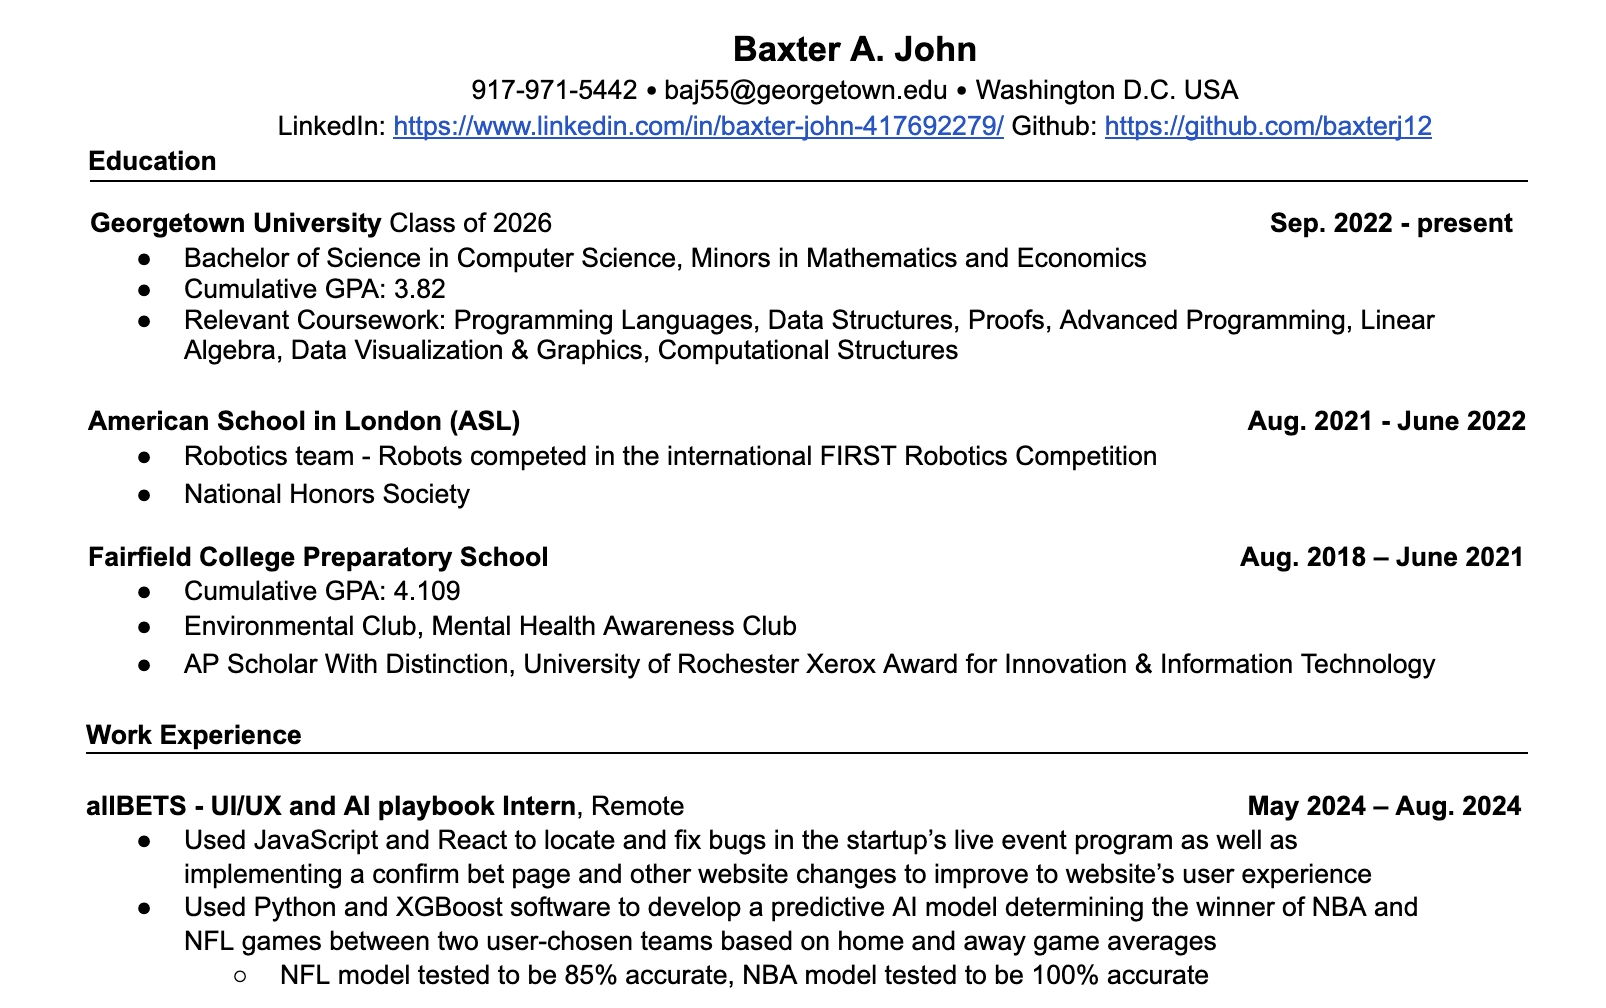
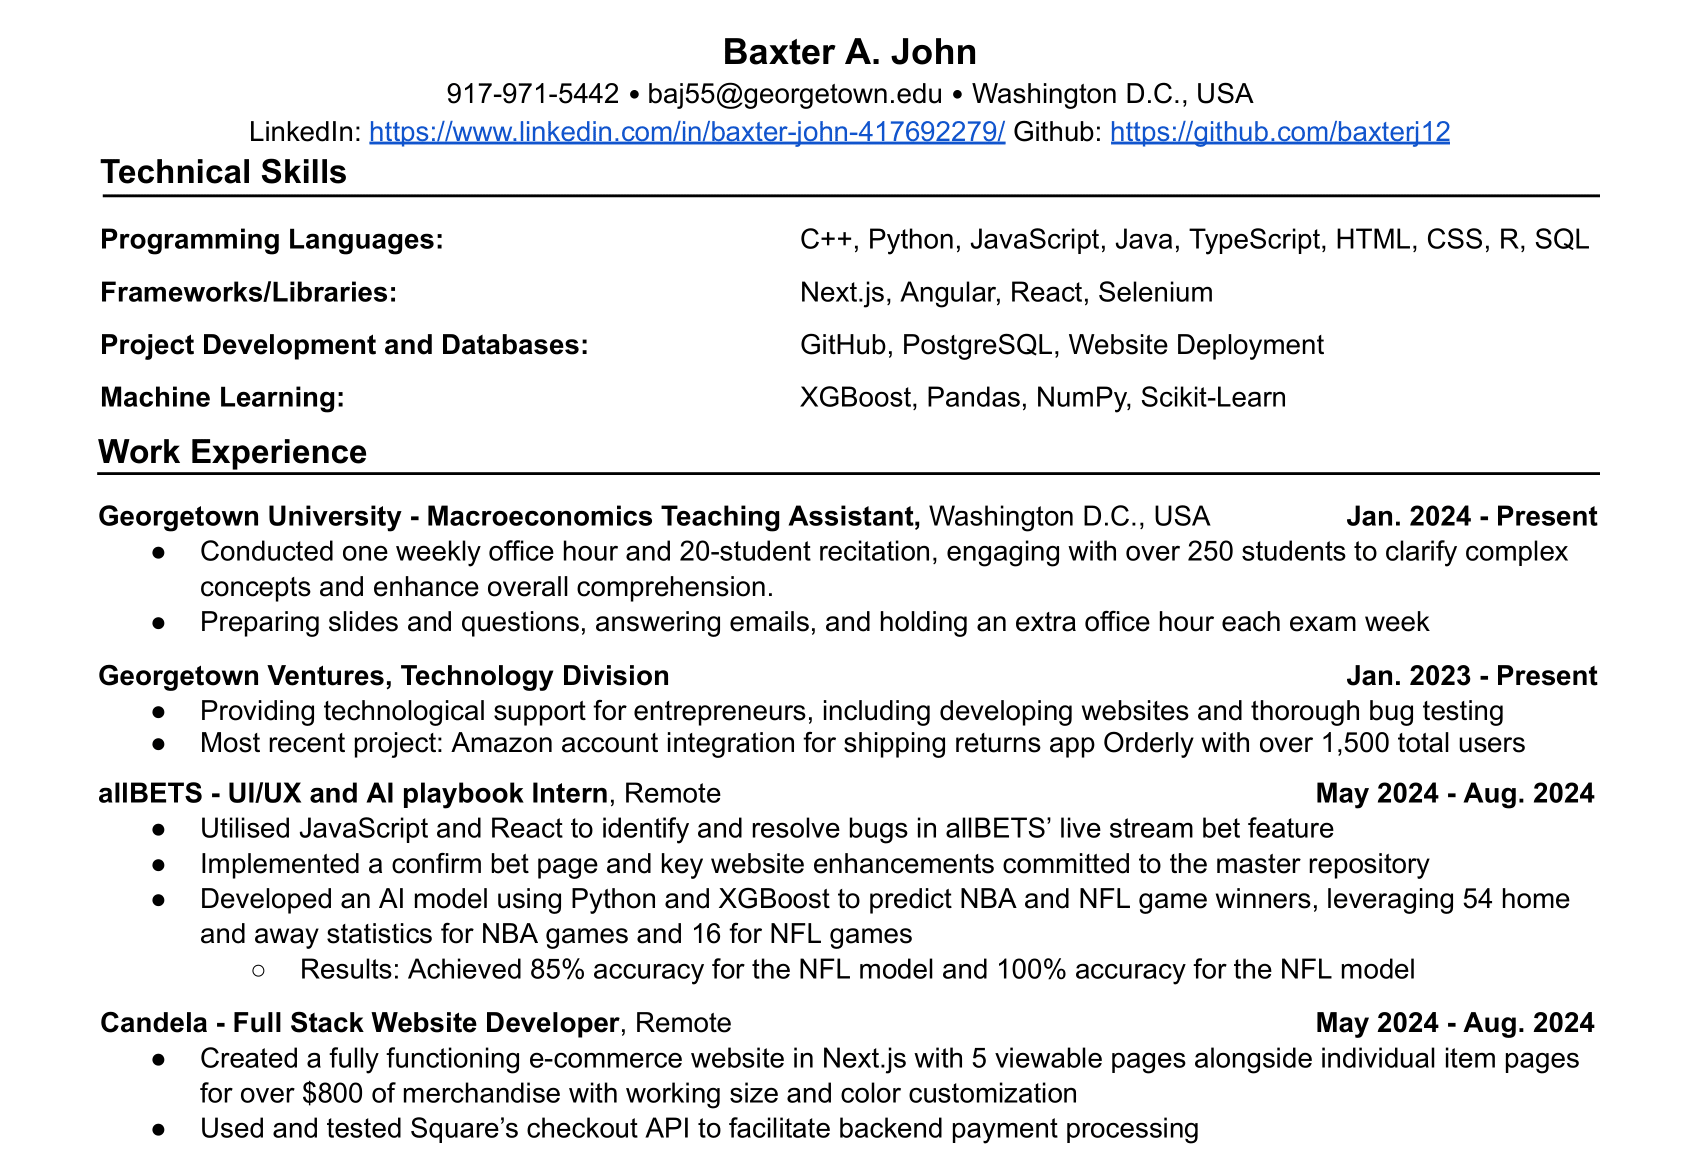
style changes

Changed region(s): [[0.0311, 0.0308, 0.9651, 1.0]]

diff --git a/src/app/homePage/app.homePage.html b/src/app/homePage/app.homePage.html
@@ -12,13 +12,13 @@
                 <a routerLink="/projects" routerLinkActive="active" aria-current="page" class="link">
                     <div class="oneLink">
                             <img class="linkImage" src="homepage/projectsprev.png"/>
-                            <p>Check out my projects</p>
+                            <p class="linkText">Check out my projects</p>
                     </div>
                 </a>
                 <a routerLink="/skills" routerLinkActive="active" aria-current="page" class="link">
                     <div class="oneLink">
                         <img class="linkImage" src="homepage/skillsprev.png"/>
-                        <p>View my skills</p>
+                        <p class="linkText">View my skills</p>
                     </div>
                 </a>
             </div>
@@ -26,13 +26,13 @@
                 <a routerLink="/resume" routerLinkActive="active" aria-current="page" class="link">
                     <div class="oneLink">
                         <img class="linkImage" src="homepage/resumeprev.png"/>
-                        <p>See my resume</p>
+                        <p class="linkText">See my resume</p>
                     </div>
                 </a>
                 <a routerLink="/aboutme" routerLinkActive="active" aria-current="page" class="link">
                     <div class="oneLink">
                         <img class="linkImage" src="homepage/aboutprev.png"/>
-                        <p>Read more about me</p>
+                        <p class="linkText">Read more about me</p>
                     </div>
                 </a>
             </div>
@@ -40,9 +40,9 @@
         <div class="smallAboutMe">
             <img class="headshot" src="homepage/headshot.png"/>
             <p class="smallAboutMeText">I am a Computer Science major at Georgetown University, minoring in Economics and Mathematics. 
-                I pride myself on my work ethic, collaboration, and passion and have used those tools to develop an 
-                understanding of full-stack development with a specialization in frontend development.</p>
-                <p class="smallAboutMeText">I am a current Junior planning on graduating in May 2026. Originally from New Canaan, Connecticut,
+                I pride myself on my work ethic, collaboration, and passion and use those tools to develop a deep 
+                understanding of full-stack development.</p>
+                <p class="smallAboutMeText">I am a current Junior graduating in May 2026. Originally from New Canaan, Connecticut,
                     and I moved to London when I was 17. My hobbies include guitar, hockey, soccer, and video games.
                 </p>
         </div>

diff --git a/src/app/homePage/app.homePage.css b/src/app/homePage/app.homePage.css
@@ -1,4 +1,3 @@
-
 .homeContainer {
     width: 100vw;
     height: 100vh;
@@ -11,7 +10,7 @@
 .homeHeader {
     width: 100vw;
     height: 10vh;
-    background-color: rgb(143, 143, 234);
+    background: linear-gradient(to bottom, rgb(143, 143, 234), rgb(99, 99, 161));
     display: flex;
     justify-content: center;
     align-items: center;
@@ -21,7 +20,7 @@
 .homeFooter {
     width: 100vw;
     height: 10vh;
-    background-color: rgb(143, 143, 234);
+    background: linear-gradient(to top, rgb(143, 143, 234), rgb(99, 99, 161));
     display: flex;
     justify-content: center;
     gap: 10vw;
@@ -42,7 +41,7 @@
     height: 80vh;
     display: flex;
     flex-direction: row;
-    background-color:rgb(99, 99, 161)
+    background: linear-gradient(to top, rgb(99, 99, 161), white 50%, rgb(99, 99, 161));
 }
 
 .links {
@@ -72,18 +71,26 @@
     max-width: 30vw;
     display: flex;
     flex-direction: column;
-    justify-content: space-between;
+    justify-content: center;
+    align-items: center;
     color: white;
     text-align: center;
     padding-bottom: 5vh;
     border-radius: 10px;
     overflow: hidden;
+    border: 10px solid rgb(115, 194, 221);
 }
 
 .linkImage {
     width: 30vh;
     height: 20vh;
     max-width: 30vw;
+    min-height: 20vh;
+    max-height: 20vh;
+}
+
+.linkText {
+    margin-top: 2.5vh;
 }
 
 .smallAboutMe {
@@ -91,11 +98,12 @@
     display: flex;
     flex-direction: column;
     justify-content: space-between;
-    background-color: rgb(103, 85, 170);
+    background-color: rgb(99, 99, 161);
     align-items: center;
     padding-top: 2vh;
     padding-bottom: 2vh;
     color: white;
+    
 
 }
 

diff --git a/src/app/aboutMe/app.about.css b/src/app/aboutMe/app.about.css
@@ -1,7 +1,7 @@
 .resumeHeader{
     width: 100vw;
     height: 10vh;
-    background-color: rgb(143, 143, 234);
+    background-color: rgb(99, 99, 161);
     display: flex;
     justify-content: center;
     align-items: center;
@@ -18,7 +18,7 @@
 }
 
 .body{
-    background-color: rgb(99, 99, 161);
+    background: linear-gradient( to bottom, rgb(99, 99, 161), rgb(143, 143, 234));
     display: flex;
     flex-direction: column;
     gap: 40px;
@@ -46,4 +46,21 @@
 
 .aboutImg{
     width: 20vw;
+}
+
+.captionRow{
+    display: flex;
+    flex-direction: row;
+    padding-left:10vw;
+    padding-right:10vw;
+    justify-content: space-between;
+    align-items: center;
+    gap: 10vw;
+}
+
+.caption{
+    margin-top: -4vh;
+    font-size: 15px;
+    width: 20vw;
+    text-align: center;
 }

diff --git a/src/app/projects/app.projects.css b/src/app/projects/app.projects.css
@@ -1,7 +1,7 @@
 .projectsHeader{
     width: 100vw;
     height: 10vh;
-    background-color: rgb(143, 143, 234);
+    background-color:  rgb(99, 99, 161);
     display: flex;
     justify-content: center;
     align-items: center;
@@ -18,7 +18,7 @@
 }
 
 .body{
-    background-color: rgb(143, 143, 234);
+    background-color: rgb(99, 99, 161);
     display: flex;
     flex-direction: column;
     gap: 5px;
@@ -32,7 +32,7 @@
 .project{
     display: flex;
     flex-direction: column;
-    background-color: rgb(99, 99, 161);
+    background: linear-gradient(to top, rgb(99, 99, 161), rgb(143, 143, 234) 50%, rgb(99, 99, 161));
     padding-left: 5vw;
     padding-right: 5vw;
     text-align: center;

diff --git a/src/app/aboutMe/app.about.html b/src/app/aboutMe/app.about.html
@@ -24,7 +24,11 @@
             <img class="aboutImg" src="aboutMe/malta.png"/>
             <img class="aboutImg" src="aboutMe/monkey.png"/>
             <img class="aboutImg" src="aboutMe/teemu.png"/>
-
+        </div>
+        <div class="captionRow">
+            <p class="caption">Me and my brother went to Malta in the summer of 2024. This is the Blue Lagoon, the water was beautiful!</p>
+            <p class="caption">Me at La Forêt des Singes in Rocamadour, France. I loved watching the monkeys play together.</p>
+            <p class="caption">My dog, Teemu, can be a bit grumpy sometimes but food will always win him over.</p>
         </div>
     </div>
 </main>

diff --git a/src/app/skills/app.skills.css b/src/app/skills/app.skills.css
@@ -1,7 +1,7 @@
 .skillsHeader{
     width: 100vw;
     height: 10vh;
-    background-color: rgb(143, 143, 234);
+    background-color: rgb(99, 99, 161);
     display: flex;
     justify-content: center;
     align-items: center;
@@ -18,7 +18,7 @@
 }
 
 .body{
-    background-color: rgb(99, 99, 161);
+    background: linear-gradient(to bottom, rgb(99, 99, 161), rgb(143, 143, 234));
     display: flex;
     flex-direction: column;
     gap: 10px;

diff --git a/src/app/resume/app.resume.css b/src/app/resume/app.resume.css
@@ -1,7 +1,7 @@
 .resumeHeader{
     width: 100vw;
     height: 10vh;
-    background-color: rgb(143, 143, 234);
+    background-color: rgb(99, 99, 161);
     display: flex;
     justify-content: center;
     align-items: center;
@@ -18,7 +18,7 @@
 }
 
 .body{
-    background-color: rgb(99, 99, 161);
+    background: linear-gradient(to bottom, rgb(99, 99, 161), rgb(143, 143, 234));
     display: flex;
     flex-direction: column;
     gap: 2vh;

diff --git a/src/app/resume/app.resume.html b/src/app/resume/app.resume.html
@@ -8,7 +8,7 @@
     </div>
     <div class="body">
         <h2 class="resumeH2">For more information, check my Projects or Skills</h2>
-        <h3 class="resumeH3">Last updated: 10/1/2024</h3>
+        <h3 class="resumeH3">Last updated: 1/13/2025</h3>
         <img class="resume" src="resume/resume.png"/>
     </div>
 </main>

diff --git a/src/app/app.component.ts b/src/app/app.component.ts
@@ -4,7 +4,7 @@ import { RouterOutlet, RouterLink, RouterLinkActive } from '@angular/router';
 @Component({
   selector: 'app-root',
   standalone: true,
-  imports: [RouterOutlet, RouterLink, RouterLinkActive],
+  imports: [RouterOutlet],
   templateUrl: './app.component.html',
   styleUrl: './app.component.css',
 })
